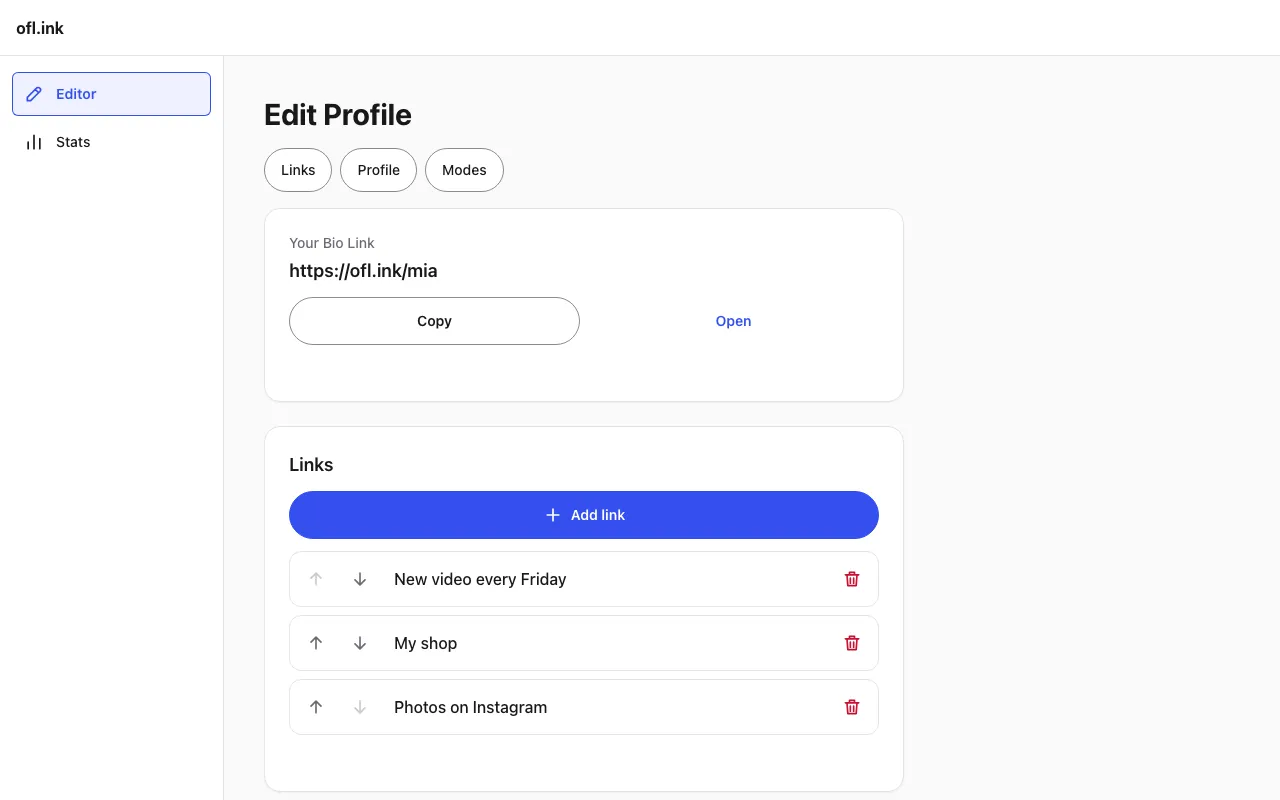
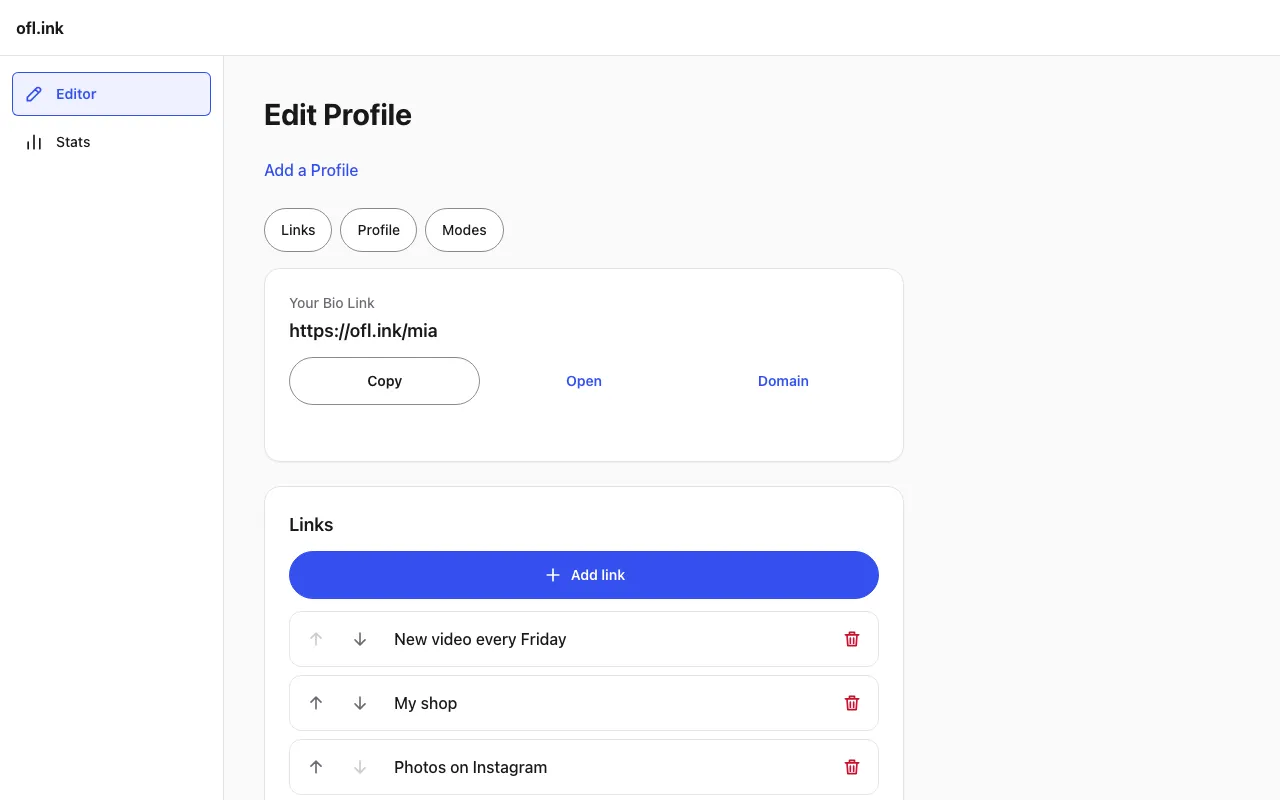
Sync escape + editor-ui work from v2

diff --git a/tests/shots/landing-shots.spec.ts b/tests/shots/landing-shots.spec.ts
@@ -40,6 +40,7 @@ async function fenced(browser: Browser, origin: string, options: BrowserContextO
   return context;
 }
 
+
 async function fillLink(page: Page, link: (typeof LINKS)[number]) {
   await page.getByLabel('Title').fill(link.title);
   await page.getByLabel('Destination').fill(link.destination);
@@ -48,7 +49,7 @@ async function fillLink(page: Page, link: (typeof LINKS)[number]) {
 }
 
 // Settled for a shot: network idle, fonts loaded, every image on screen decoded; then the local origin rewritten (ruling 11).
-async function shoot(page: Page, origin: string, name: string) {
+async function settle(page: Page, origin: string) {
   await page.waitForLoadState('networkidle');
   await page.evaluate(() => document.fonts.ready);
   await page.waitForFunction(() => [...document.images]
@@ -62,8 +63,29 @@ async function shoot(page: Page, origin: string, name: string) {
     }
   }, { local, to: PUBLIC });
   expect(await page.evaluate(() => document.body.innerText), 'the local origin in the shot').not.toContain(local.host);
+}
+
+// A full-viewport shot.
+async function shoot(page: Page, origin: string, name: string) {
+  await settle(page, origin);
   const png = join(PNG_DIR, `${name}.png`);
   await page.screenshot({ path: png, animations: 'disabled' });
+  await toWebp(png, name);
+}
+
+// A cropped shot: `clip` is in CSS pixels, measured after settle() by the caller, so the overlay's dead black band is left out.
+async function shootClip(page: Page, origin: string, name: string, clip: (p: Page) => Promise<{ x: number; y: number; width: number; height: number }>) {
+  await settle(page, origin);
+  const png = join(PNG_DIR, `${name}.png`);
+  await page.screenshot({ path: png, animations: 'disabled', clip: await clip(page) });
+  await toWebp(png, name);
+}
+
+// A single element, cropped to its own box (the Editor's Quick Settings card).
+async function shootEl(page: Page, origin: string, name: string, selector: string) {
+  await settle(page, origin);
+  const png = join(PNG_DIR, `${name}.png`);
+  await page.locator(selector).screenshot({ path: png, animations: 'disabled' });
   await toWebp(png, name);
 }
 
@@ -133,6 +155,24 @@ test('the landing\'s four screenshots of a demo Creator', async ({ browser, base
   await shoot(profile, origin, 'profile-mobile');
   await visitorPhone.close();
 
+  // The Escape Overlay, the screen Escape Mode shows a Visitor inside the Instagram in-app browser: its UA (an `Instagram` token
+  // script.js matches) makes her Escape Mode Profile show the on-load screen. Its up-arrow (to the ··· menu) and Instagram mark
+  // are inline SVG in index.html, so they render under the strict fence with no webfont to wait on. The shot is cropped to the
+  // content (top of frame down to the "Copy link" button) so the overlay's top-aligned dead black band is left out. Her
+  // example.com Links keep any Destination out of the shot, and the escape target shown is her own Profile URL, rewritten to
+  // https://ofl.ink by settle().
+  const IG_UA = 'Mozilla/5.0 (iPhone; CPU iPhone OS 17_0 like Mac OS X) AppleWebKit/605.1.15 (KHTML, like Gecko) Mobile/15E148 Instagram 300.0.0.0.0 (iPhone14,3; iOS 17_0; en_US; en-US; scale=3.00; 1170x2532; 000000000)';
+  const igPhone = await fenced(browser, origin, { ...PHONE, userAgent: IG_UA });
+  const ig = await igPhone.newPage();
+  await ig.goto(`/${MIA.username}`);
+  await expect(ig.locator('#igOverlay')).toBeVisible();
+  await expect(ig.locator('#igCopyBtn')).toBeVisible();
+  await shootClip(ig, origin, 'escape-overlay-mobile', async (p) => {
+    const bottom = await p.locator('#igCopyBtn').evaluate((node) => node.getBoundingClientRect().bottom);
+    return { x: 0, y: 0, width: 390, height: Math.ceil(bottom + 24) };
+  });
+  await igPhone.close();
+
   // Local Visitors: a Page View each, and a Click through /r for those that tap, its 302 fetched without following it.
   for (const [country, title] of VISITS) {
     const context = await fenced(browser, origin, { ...PHONE, extraHTTPHeaders: { 'CF-IPCountry': country } });
@@ -158,5 +198,44 @@ test('the landing\'s four screenshots of a demo Creator', async ({ browser, base
   await expect(heading(page, 'Stats')).toBeVisible();
   await expect(page.getByRole('button', { name: '7D', exact: true })).toHaveAttribute('aria-pressed', 'true');
   await shoot(page, origin, 'editor-stats-mobile');
+
+  // Where Deeplink is set: the Editor's "Quick Settings" card (profile.js quickSettings), the Profile's one default Mode. With
+  // "Deeplink on tap" chosen its help text shows and the fixed note ("Every Link left on 'Profile default' follows this Mode.")
+  // proves it is set once for the whole Profile, not per Link. The choice is not saved, so her default stays Escape. The card is
+  // shot as a single element, so it is cropped to itself with no full-page band.
+  await page.goto('/edit/home');
+  await page.locator('#modes').scrollIntoViewIfNeeded();
+  await page.getByLabel('Default Mode').selectOption({ label: 'Deeplink on tap' });
+  await expect(page.locator('#default-mode-help')).toContainText('Deeplink on tap');
+  await shootEl(page, origin, 'deeplink-setting-mobile', '#modes');
+
+  // One adult Link, added now so profile-mobile (shot earlier) is unchanged, to trigger the 18+ Age Gate.
+  await page.goto('/edit/home');
+  await page.getByRole('button', { name: 'Add link' }).click();
+  await expect(heading(page, 'Add link')).toBeVisible();
+  await page.getByLabel('Title').fill('Backstage');
+  await page.getByLabel('Destination').fill('https://example.com/backstage');
+  await page.getByLabel('Icon').selectOption({ label: 'Link' });
+  await page.getByLabel('18+ Age Gate').check();
+  await page.getByRole('button', { name: 'Save link' }).click();
+  await expect(heading(page, 'Edit Profile')).toBeVisible();
   await phone.close();
+
+  // The 18+ Age Gate (#overlay, the Mature Content Disclaimer), as a Visitor sees it on tapping the adult Link. A plain phone
+  // (not an in-app browser) so the tap opens the overlay in place. Cropped to the card. (Its lock/close glyphs are FontAwesome,
+  // blocked by the fence, so they stay blank rather than render as tofu; the card still reads as the 18+ check.)
+  const agePhone = await fenced(browser, origin, PHONE);
+  const ageView = await agePhone.newPage();
+  await ageView.goto(`/${MIA.username}`);
+  await ageView.locator('.link-card', { hasText: 'Backstage' }).click();
+  await expect(ageView.locator('#overlay')).toBeVisible();
+  await expect(ageView.locator('#overlay .overlay-content')).toBeVisible();
+  await shootClip(ageView, origin, 'age-gate-mobile', async (p) => {
+    const box = await p.locator('#overlay .overlay-content').evaluate((node) => {
+      const r = node.getBoundingClientRect();
+      return { top: r.top, bottom: r.bottom };
+    });
+    return { x: 0, y: Math.max(0, Math.floor(box.top - 40)), width: 390, height: Math.ceil(box.bottom - box.top + 80) };
+  });
+  await agePhone.close();
 });

diff --git a/app/public/landing.html b/app/public/landing.html
@@ -174,6 +174,12 @@
     /* 3. Modes and Reveal */
     .l-modes__body { display: grid; grid-template-columns: minmax(0, 1fr); gap: var(--e-space-10); margin-top: var(--e-space-8); }
     .l-modes__cards { display: grid; gap: var(--e-space-4); }
+    /* A responsive gallery of phone thumbnails under the Mode cards, each with a caption; images keep their own aspect ratio. */
+    .l-modes__shots { display: grid; grid-template-columns: repeat(auto-fit, minmax(150px, 1fr)); gap: var(--e-space-8); margin-top: var(--e-space-10); align-items: start; }
+    .l-modes__shot { display: flex; flex-direction: column; align-items: center; }
+    .l-modes__shots .l-shot { width: 100%; max-width: 280px; }
+    .l-modes__shots .l-shot__img { aspect-ratio: auto; object-fit: fill; }
+    .l-shot__cap { margin-top: var(--e-space-3); text-align: center; font-size: var(--e-text-sm); line-height: var(--e-leading-sm); color: var(--e-color-text-muted); }
     .l-card {
       padding: var(--e-space-4);
       background: var(--e-color-surface);
@@ -256,7 +262,8 @@
       .l-hero__inner { grid-template-columns: minmax(0, 1fr) auto; align-items: center; gap: var(--e-space-16); }
       .l-hero__title { font-size: var(--e-text-5xl); line-height: var(--e-leading-5xl); }
 
-      .l-modes__body { grid-template-columns: minmax(0, 1fr) auto; align-items: center; gap: var(--e-space-12); }
+      .l-modes__cards { grid-template-columns: repeat(3, minmax(0, 1fr)); }
+      .l-card--wide { grid-column: 1 / -1; }
     }
 
     @media (prefers-reduced-motion: reduce) {
@@ -326,26 +333,63 @@
             </li>
             <li class="l-card">
               <h3 class="l-h3">Escape <span class="l-tag">Mode</span></h3>
-              <p class="l-text">Tries to move Visitors out of the Instagram or TikTok browser into Safari or Chrome. If the phone won't switch by itself, your page shows how.</p>
+              <p class="l-text">Inside Instagram or TikTok, Escape Mode shows a screen that gets the Visitor into Safari or Chrome: an "Open in browser" button, and if that doesn't take, the steps to tap the ··· menu and choose "Open in External Browser" or "Open in System Browser", with "Copy link" as a last resort. A Visitor already in a real browser never sees it.</p>
             </li>
             <li class="l-card">
               <h3 class="l-h3">Deeplink <span class="l-tag">Mode</span></h3>
-              <p class="l-text">Inside Instagram or TikTok, a tap goes straight to Safari or Chrome with no how-to screen. On Android it can open the Link's own app.</p>
+              <p class="l-text">The silent one — no screen of ours. Inside Instagram, TikTok and other apps the Visitor is sent straight to Safari or Chrome, the moment your page opens or when they tap a Link, depending on how you set it. On iPhone, Instagram shows one quick check first — "open outside Instagram?" — and the Visitor taps Open. On Android it can open the Link's own app instead. Deeplink applies to your whole page, not to a single Link.</p>
             </li>
             <li class="l-card">
               <h3 class="l-h3">18+ Age Gate</h3>
-              <p class="l-text">Turn it on for a Link and Visitors who tap it on your page confirm they are 18 or older first. It works with every Mode.</p>
+              <p class="l-text">Turn it on for a Link and Visitors who tap it confirm they are 18 or older first. It works with every Mode.</p>
             </li>
             <li class="l-card l-card--wide">
               <h3 class="l-h3">Your Destinations stay hidden</h3>
               <p class="l-text">Your page never contains the addresses your Links lead to. Each one is handed out only when a Visitor opens that Link, which keeps casual bots from collecting them.</p>
             </li>
           </ul>
-          <div class="l-shot">
-            <img class="l-shot__img" src="/images/landing/profile-mobile.webp" width="780" height="1688" loading="lazy"
-              alt="A Creator's page on a phone: photo, name and Link cards."
-              data-test="landing-shot-profile">
-          </div>
+          <ul class="l-modes__shots" role="list">
+            <li class="l-modes__shot">
+              <div class="l-shot">
+                <img class="l-shot__img" src="/images/landing/profile-mobile.webp" width="780" height="1688" loading="lazy"
+                  alt="A Creator's page on a phone: photo, name and Link cards."
+                  data-test="landing-shot-profile">
+              </div>
+              <p class="l-shot__cap">A Creator's page, as a Visitor sees it</p>
+            </li>
+            <li class="l-modes__shot">
+              <div class="l-shot">
+                <img class="l-shot__img" src="/images/landing/escape-overlay-mobile.webp" width="780" height="1192" loading="lazy"
+                  alt="Escape Mode's screen inside Instagram: an up-arrow to the ··· menu, 'Open in System Browser', an 'Open in browser' button and 'Copy link'."
+                  data-test="landing-shot-escape">
+              </div>
+              <p class="l-shot__cap">Escape Mode's screen inside Instagram or TikTok</p>
+            </li>
+            <li class="l-modes__shot">
+              <div class="l-shot">
+                <img class="l-shot__img" src="/images/landing/deeplink-setting-mobile.webp" width="716" height="840" loading="lazy"
+                  alt="The Editor's Quick Settings card with the default Mode set to Deeplink on tap, and its help text."
+                  data-test="landing-shot-deeplink">
+              </div>
+              <p class="l-shot__cap">Deeplink is your Profile's default Mode, set once in the Editor</p>
+            </li>
+            <li class="l-modes__shot">
+              <div class="l-shot">
+                <img class="l-shot__img" src="/images/landing/deeplink-popup-mobile.webp" width="780" height="1082" loading="lazy"
+                  alt="Inside Instagram on iPhone, an iOS dialog reads 'This web page is trying to open an app outside of Instagram. Are you sure you want to open it?' with Open and Cancel buttons."
+                  data-test="landing-shot-deeplink-popup">
+              </div>
+              <p class="l-shot__cap">On iPhone, Instagram asks before Deeplink opens the browser — tap Open</p>
+            </li>
+            <li class="l-modes__shot">
+              <div class="l-shot">
+                <img class="l-shot__img" src="/images/landing/age-gate-mobile.webp" width="780" height="622" loading="lazy"
+                  alt="The Mature Content Disclaimer: a Visitor confirms they are 18 or older before an adult Link opens."
+                  data-test="landing-shot-agegate">
+              </div>
+              <p class="l-shot__cap">The 18+ check before an adult Link opens</p>
+            </li>
+          </ul>
         </div>
       </div>
     </section>

diff --git a/app/public/index.html b/app/public/index.html
@@ -51,12 +51,19 @@
     <div id="igOverlay" class="overlay hidden"
         style="z-index: 9999; background-color: rgba(0,0,0,0.95); flex-direction: column; justify-content: flex-start; padding-top: 20px;">
         <div style="text-align: right; width: 100%; padding-right: 25px; box-sizing: border-box;">
-            <i class="fas fa-arrow-up ig-arrow-anim" style="font-size: 2.5rem; color: #fff;"></i>
+            <!-- Inline SVG so the cue to the ··· menu always renders, with no webfont to wait on -->
+            <svg class="ig-arrow-anim" width="40" height="40" viewBox="0 0 24 24" fill="none" stroke="#fff" stroke-width="2.5"
+                stroke-linecap="round" stroke-linejoin="round" aria-hidden="true" style="display: inline-block;">
+                <path d="M12 19V5M5 12l7-7 7 7" />
+            </svg>
         </div>
         <div class="overlay-content"
             style="background-color: transparent; border: none; box-shadow: none; color: white; margin-top: 20px;">
-            <!-- v1's icon and copy (linkme_clone3/index.html), shown as v1 shows them to Instagram; other apps read "This app" -->
-            <i id="igIcon" class="fab fa-instagram" style="display: none; font-size: 4rem; margin-bottom: 20px; color: #E1306C;"></i>
+            <!-- v1's icon and copy (linkme_clone3/index.html), shown as v1 shows them to Instagram; other apps hide it. Inline SVG -->
+            <svg id="igIcon" width="64" height="64" viewBox="0 0 24 24" fill="#E1306C" aria-hidden="true"
+                style="display: none; margin-bottom: 20px;">
+                <path d="M12 2.163c3.204 0 3.584.012 4.85.07 3.252.148 4.771 1.691 4.919 4.919.058 1.265.069 1.645.069 4.849 0 3.205-.012 3.584-.069 4.849-.149 3.225-1.664 4.771-4.919 4.919-1.266.058-1.644.07-4.85.07-3.204 0-3.584-.012-4.849-.07-3.26-.149-4.771-1.699-4.919-4.92-.058-1.265-.07-1.644-.07-4.849 0-3.204.013-3.583.07-4.849.149-3.227 1.664-4.771 4.919-4.919 1.266-.057 1.645-.069 4.849-.069zm0-2.163C8.741 0 8.333.014 7.053.072 2.695.272.273 2.69.073 7.052.014 8.333 0 8.741 0 12c0 3.259.014 3.668.072 4.948.2 4.358 2.618 6.78 6.98 6.98C8.333 23.986 8.741 24 12 24c3.259 0 3.668-.014 4.948-.072 4.354-.2 6.782-2.618 6.979-6.98.059-1.28.073-1.689.073-4.948 0-3.259-.014-3.667-.072-4.947-.196-4.354-2.617-6.78-6.979-6.98C15.668.014 15.259 0 12 0zm0 5.838a6.162 6.162 0 100 12.324 6.162 6.162 0 000-12.324zM12 16a4 4 0 110-8 4 4 0 010 8zm6.406-11.845a1.44 1.44 0 100 2.881 1.44 1.44 0 000-2.881z" />
+            </svg>
             <h2 style="font-size: 1.5rem; margin-bottom: 15px; font-weight: bold;">Open in System Browser</h2>
             <p style="font-size: 1.1rem; color: #ddd; margin-bottom: 20px; line-height: 1.6;">
                 <span id="igAppName">This app</span> restricts some links. Please tap the <strong>&middot;&middot;&middot;</strong> menu in the top

diff --git a/app/editor/screens/profile.js b/app/editor/screens/profile.js
@@ -104,7 +104,7 @@ export function drawProfileStep(profile) {
 // What each default Mode does, in one plain sentence, as app/public/script.js does it (the brief's ruling 13).
 const MODE_HELP = {
   direct: 'Direct opens the Destination straight away.',
-  escape_ig: 'Escape moves Visitors out of the Instagram or TikTok browser into Safari or Chrome. If the phone won\'t switch by itself, your page shows how.',
+  escape_ig: 'Escape shows Visitors in the Instagram or TikTok browser a screen that helps them into Safari or Chrome; a Visitor already in a real browser never sees it.',
   deeplink: 'Deeplink on tap sends the Visitor to Safari or Chrome the moment they tap the Link, from Instagram, TikTok and other apps\' in-app browsers on iPhone and Android, with no how-to screen. Safari or Chrome then opens the Destination.',
   deeplink_open: 'Deeplink at open sends the Visitor to Safari or Chrome as soon as your page opens in Instagram, TikTok and other apps\' in-app browsers on iPhone and Android, once per tab, with no how-to screen. Taps there behave like Deeplink on tap.',
 };
